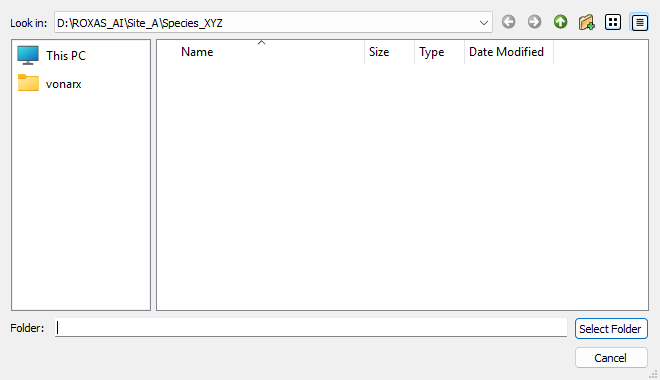
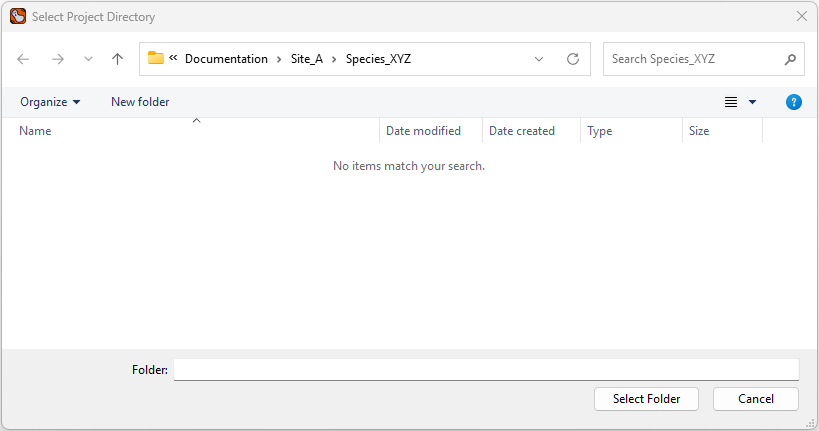
Expand and clarify "Files and Layers Saved" section in user guide for segmentation, editing, cross-dating, and measurement workflows; update overview image, metadata, and layer save logic documentation.

diff --git a/docs/user_guide/widgets.md b/docs/user_guide/widgets.md
@@ -258,6 +258,12 @@ The **Single Sample Segmentation Widget** performs automated deep-learning infer
 - **Rings Detection**: Detects continuous tree-ring boundaries using an iterative regression formulation based on Katzenmaier et al. (2025), sorts boundaries from bark to pith, enforces boundary continuity across the sample width, and constructs labeled annual ring bands (`<sample>.rings`).
 - Post-processes masks to eliminate edge artefacts (e.g., boundary-touching partial cells).
 
+### Files and Layers Saved
+- **In-Memory Layers Created / Updated**: Adds or updates the `<sample>.cells` layer (Labels), `<sample>.rings` layer (Labels), and `Rings Years` text overlay layer in the active napari viewer.
+- **Annotated Overview Image**: Automatically generates and saves the `<sample>_annotated.jpg` overview scan in the sample directory, overlaid with detected ring boundaries and calendar year labels (and optional semi-transparent cell overlays).
+- **Metadata**: Updates `<sample>.metadata.json` with detected ring count (`rings_count`) and outermost complete year (`rings_outmost_complete_year`).
+- *Note on Label Files on Disk*: The raw segmentation label rasters (`.cells.png` and `.rings.tif`) are held in memory as viewer layers ready for manual inspection/editing; they are persisted to disk when clicking **Save All Layers** (or via [8 - Save Cells & Rings Editing](#8-save-cells-rings-editing)).
+
 ### Key Controls & Options
 - **Cell Segmentation Checkbox & Model Dropdown**: Checkbox to enable cell lumen detection, alongside a dropdown list to choose the trained cell model checkpoint (`.pth`). Unchecking disables cell detection and hides the model selection dropdown.
 - **Ring Segmentation Checkbox & Model Dropdown**: Checkbox to enable tree-ring boundary detection, alongside a dropdown list to choose the trained ring model checkpoint (`.pth`). Unchecking disables ring detection and hides the model selection dropdown.
@@ -280,6 +286,12 @@ The **Batch Sample Segmentation Widget** executes AI detection across multiple s
 - Iterates over all discovered sample scans in the project directory.
 - Applies the selected neural network models sequentially (see [Deep-Learning Segmentation Models](../reference/segmentation_models.md)).
 - Automatically saves segmentation masks (`.cells.png` and `.rings.tif`) directly to disk alongside updated `.metadata.json` files.
+
+### Files and Layers Saved
+- **Cell Masks (`<sample>.cells.png`)**: Saved directly to disk when cell segmentation is enabled.
+- **Ring Masks (`<sample>.rings.tif`)**: Saved directly to disk when ring segmentation is enabled.
+- **Annotated Overview Images (`<sample>_annotated.jpg`)**: Automatically created or updated on disk with ring boundaries and year labels when ring segmentation is run.
+- **Metadata (`<sample>.metadata.json`)**: Updated on disk with ring count (`rings_count`) and outermost complete year (`rings_outmost_complete_year`).
 
 ### Key Controls
 - **Project Directory Selection**: Choose the target folder containing prepared samples (triggering the same global project directory selection dialog).
@@ -314,8 +326,12 @@ The **Cells Layer Editor Widget** provides interactive manual editing tools to c
     - **Edit As Vector**: Converts cell outlines into editable polygon shapes for precise vertex editing, shape adjustment, and deletion.
 - **Lasso Selection & Union (OR) Behavior**: In Vector editing mode, drawing lasso loops encloses cells. Multiple overlapping lasso polygons combine (union / OR logic) rather than toggling/canceling, allowing seamless regional selection.
 - **Undo Mechanism**: Supports a 50-step history stack (<kbd>Ctrl</kbd>+<kbd>Z</kbd> or **Undo Last Change** button) that snapshots polygon coordinates and shape types in Vector mode, and triggers napari's label brush history in Raster mode.
-- When applied, rasterizes vectors back to label masks, resets layer feature tables for fresh re-measurement, restores ring layer visibility, and preserves layer metadata.
+- When applied, rasterizes vectors back to label masks, marks the `.cells` layer as modified (triggering unsaved change tracking), resets layer feature tables for fresh re-measurement, restores ring layer visibility, and preserves layer metadata.
 - **Customizable Tolerances & Colors**: Polygon smoothing tolerances, line widths, and display colors can be customized in [ZZ - Settings](#zz-settings) (see [Technical Reference: Visualization Settings](../reference/technical_reference.md#4-visualization-vectorization-rasterization)).
+
+### Files and Layers Saved
+- **In-Memory Modifications**: Changes made using Vector or Raster tools are committed to the in-memory `<sample>.cells` layer upon clicking **Apply Cell Changes**.
+- **Saving to Disk**: Clicking **Save All Layers** (or using [8 - Save Cells & Rings Editing](#8-save-cells-rings-editing)) writes the updated `<sample>.cells.png` raster directly to disk and updates `<sample>.metadata.json`. Manual saving does not redraw `<sample>_annotated.jpg` (keeping saves fast); the annotated image is automatically updated at major workflow checkpoints (segmentation, year updates, cross-dating, measurements).
 
 ### Key Controls & Options
 - **Editing Mode**: Switch between `Vector` and `Raster` editing modes.
@@ -375,6 +391,12 @@ The **Rings Layer Editor Widget** enables precise curation of annual tree-ring b
     - Re-runs the ring boundary detection AI specifically below a corrected reference ring boundary.
 10. **Customizable Tolerances & Colors**:
     - Polyline smoothing tolerances, line thickness, and boundary colors can be customized in [ZZ - Settings](#zz-settings) (see [Technical Reference: Visualization Settings](../reference/technical_reference.md#4-visualization-vectorization-rasterization)).
+
+### Files and Layers Saved
+- **In-Memory Modifications**: Adding, deleting, or nudging ring boundaries updates the `<sample>.rings` labels layer and `Rings Years` text overlay upon clicking **Apply Ring Changes**, marking the `.rings` layer as modified.
+- **Annotated Overview Image (`<sample>_annotated.jpg`)**: Automatically re-drawn and saved directly to disk whenever **Update Year** is clicked, reflecting the new ring year labels and boundary positions.
+- **Ring Table Synchronization (`<sample>.rings_table.csv`)**: When ring changes or year updates are applied, existing ring tables are updated to keep ring numbers and years consistent.
+- **Saving to Disk**: Clicking **Save All Layers** (or using [8 - Save Cells & Rings Editing](#8-save-cells-rings-editing)) writes the updated `<sample>.rings.tif` mask and `<sample>.metadata.json` (outermost year `rings_outmost_complete_year`, ring count `rings_count`) to disk. Manual saves do not redraw `<sample>_annotated.jpg` to keep saving instantaneous.
 
 ### Key Controls & Options
 - **Last Complete Ring Year (SpinBox)**: Specifies the calendar year of the outermost complete annual ring. Supports calendar years from **`-100,000`** (prehistoric/BCE dates) up to **`9,999`** (CE).
@@ -461,6 +483,13 @@ When a sample's tree-ring layer is selected in napari, the widget automatically 
 - **Files in Different Directory Levels**:
     - Because traversal stops at the first directory containing matches, a cross-dating file located in a sample's local subfolder takes precedence over a cross-dating file located in parent or root directories.
 
+### Files and Layers Saved
+- **In-Memory Modifications**: Clicking **Apply Changes** updates the year labels on the `Rings Years` text overlay, shifts `.rings` label indices, and marks the `.rings` layer as modified with the new outermost year.
+- **Annotated Overview Image (`<sample>_annotated.jpg`)**: Automatically re-generated and saved to disk with updated ring calendar year labels upon clicking **Apply Changes**.
+- **Reference Series Plot (`<sample>_ReferenceSeries.jpg`)**: Generated and saved to disk when clicking **Apply Changes** or **Export Plot** (or automatically during batch measurement updates via [9B - Batch Measure & Update](#9b-batch-measure-update)), plotting sample mean ring width (`MRW`) against the selected reference chronology.
+- **Metadata (`<sample>.metadata.json`)**: Updated with the validated outermost year (`rings_outmost_complete_year`) and the selected reference series column (`reference_series`). The cross-dating file path itself is not stored, enabling portable directory hierarchies.
+- **Ring Table Synchronization (`<sample>.rings_table.csv`)**: If measurement tables already exist on disk, their `YEAR` column is automatically updated to reflect the new dating.
+
 ### Key Controls & Options
 - **Crossdating File Dropdown**: Selects among multiple detected cross-dating files in the directory tree.
 - **Reference Series Dropdown**: Selects from individual series, site chronologies, or the auto-computed `"average"` column from the active cross-dating file. Automatically prioritizes columns whose names match the active sample stem.
@@ -482,15 +511,27 @@ The **Samples Saving Widget** writes modified cell masks, ring boundaries, and u
 
 ### How It Works
 - Gathers data, layer parameters, and metadata from active napari layers.
-- Formats and writes `.cells.png` (8-bit or 16-bit label rasters) and `.rings.tif`.
-- Keeps track of unsaved changes: layers loaded from disk start out unmodified, and edits, year updates, cross-dating offsets and new segmentations mark them as modified.
-- Does not redraw the annotated overview image (`<sample_name>_annotated.jpg`), so that saving stays fast. The overview is updated at the workflow checkpoints instead: segmentation (3A/3B), **Update Year** (6), **Apply Changes** (7) and measurements (9A/9B).
+- Formats and writes `.cells.png` (8-bit or 16-bit label rasters) and `.rings.tif` to disk.
+- **Unsaved Changes Tracking**: Layers loaded from disk start out unmodified. Manual edits (vector/raster cell modifications, adding/moving/deleting rings, changing outermost ring year, applying cross-dating offsets) and freshly run AI segmentations mark the corresponding layers as modified (`layer.metadata["is_modified"] = True`).
+- **Targeted Saving**: **Save All Layers** checks which layers have unsaved edits and saves only those modified layers to disk, skipping unmodified files.
+- **Explicit Save Status Notifications**: Reports exactly what was written:
+    - `"Saved cells layer."` (when only `.cells` was modified)
+    - `"Saved rings layer."` (when only `.rings` was modified)
+    - `"Saved cells and rings layers."` (when both were modified)
+    - `"No unsaved changes in cells or rings layers."` (when no changes were pending)
+- **Fast Saving Decoupled from Overview Rendering**: Manual layer saving does **not** redraw the annotated overview image (`<sample_name>_annotated.jpg`), ensuring saves complete in milliseconds without disk or CPU overhead. The annotated overview image is automatically regenerated at key workflow checkpoints instead: AI segmentation (3A/3B), **Update Year** (6), **Apply Changes** in cross-dating (7), and trait measurement (9A/9B).
 - Updates `<sample_name>.metadata.json` with updated ring counts, outermost year, and timestamps.
 - Operates in a non-blocking background worker thread.
 
+### Files and Layers Saved
+- **Cell Masks (`<sample>.cells.png`)**: Written to disk if `.cells` has unsaved changes.
+- **Ring Masks (`<sample>.rings.tif`)**: Written to disk if `.rings` has unsaved changes.
+- **Metadata (`<sample>.metadata.json`)**: Synchronized with layer metadata parameters (outermost ring year `rings_outmost_complete_year`, ring count `rings_count`, layer timestamps).
+- *Overview Image Note*: `<sample>_annotated.jpg` is **not** overwritten on manual save, keeping layer saving instantaneous.
+
 ### Key Controls
 - **Save Selected Layers**: Saves only the layers currently highlighted in the napari layer list.
-- **Save All Layers**: Saves only the `.cells` and `.rings` layers with unsaved changes and reports what was written: "Saved cells layer.", "Saved rings layer." or "Saved cells and rings layers.". Without changes, nothing is written and "No unsaved changes in cells or rings layers." is shown.
+- **Save All Layers**: Saves only the `.cells` and `.rings` layers with unsaved changes and reports what was written ("Saved cells layer.", "Saved rings layer.", or "Saved cells and rings layers."). Without changes, nothing is written and "No unsaved changes in cells or rings layers." is shown.
 - **Progress Bar**: Shows disk write progress, scaled to the number of layers actually saved.
 
 ---
@@ -511,6 +552,12 @@ The **Single Sample Measurements Widget** computes the full suite of Quantitativ
     - **Ring-Level Aggregates**: Mean Ring Width (`MRW`), Cell Density (`CD`), Conductive Area Fraction (`RCTA`), Mork's Index (`RTSR`), Relative Anatomical Density (`RWD`).
 - Outputs semicolon-delimited CSV tables: `<sample_name>.cells_table.csv` and `<sample_name>.rings_table.csv` (file extensions and delimiter configurable in settings).
 - **Always Re-creates Annotated Image**: Re-creates and saves an updated annotated overview image (`<sample_name>_annotated.jpg`) overlaid with ring boundaries and years whenever measurements are performed, ensuring the annotated image remains strictly in line with the measurements.
+
+### Files and Layers Saved
+- **Cell Measurement Table (`<sample>.cells_table.csv`)**: Saved directly to disk with comprehensive lumen and cell wall thickness metrics per detected cell instance (when **Measure Cells** is enabled).
+- **Ring Measurement Table (`<sample>.rings_table.csv`)**: Saved directly to disk with ring-width and ring-level aggregate anatomical traits per calendar year (when **Measure Rings** is enabled).
+- **Annotated Overview Image (`<sample>_annotated.jpg`)**: Automatically re-generated and saved to disk with synchronized ring boundaries, calendar years, and cell lumen overlays.
+- **Layer Feature Tables**: In-memory feature tables on `.cells` and `.rings` layers are updated, allowing interactive inspection of properties directly within napari.
 
 ### Key Controls
 - **Measure Cells / Measure Rings**: Checkboxes selecting whether to measure cell anatomical metrics, tree-ring boundary metrics, or both.
@@ -533,6 +580,17 @@ The **Batch Sample Measurements Widget** runs high-throughput anatomical trait e
 - Computes cell-level and ring-level measurement tables in batch mode.
 - Writes `<sample>.cells_table.csv` and `<sample>.rings_table.csv` directly to each sample folder.
 - Generates or updates annotated overview scans (`<sample>_annotated.jpg`) and cross-dating reference plots (`<sample>_ReferenceSeries.jpg`).
+- **How Reference Plot Updates Work**: When generating `<sample>_ReferenceSeries.jpg`, ROXAS AI extracts the sample's measured mean ring width (`MRW`) series from `<sample>.rings_table.csv` (or calculates it from the `.rings` mask). It discovers available cross-dating files in the directory hierarchy by searching strictly upwards from the sample folder for files matching the configured cross-dating file extension (e.g., `*.crossdating.txt`). To determine which reference series to plot against:
+    - If a specific reference series was previously saved in `<sample>.metadata.json` (`reference_series`), and that column exists in one of the discovered cross-dating files, it uses that stored reference series.
+    - If no reference series is stored (or `reference_series` is `"NA"` or no longer present in the files), ROXAS AI automatically searches the series columns of the discovered cross-dating files for the best name match with the sample name.
+    - If a matching reference series is identified, the plot is rendered and `<sample>.metadata.json` is updated with the selected `reference_series`. If no cross-dating files or matching series are found, reference plot creation is safely skipped.
+
+### Files and Layers Saved
+- **Cell Measurement Tables (`<sample>.cells_table.csv`)**: Saved to disk for each processed sample when **Measure Cells** is enabled.
+- **Ring Measurement Tables (`<sample>.rings_table.csv`)**: Saved to disk for each processed sample when **Measure Rings** is enabled.
+- **Annotated Overview Images (`<sample>_annotated.jpg`)**: Saved or updated on disk for each sample when **Update Annotated Images** is active (or locked on during measurements).
+- **Reference Series Plots (`<sample>_ReferenceSeries.jpg`)**: Saved or updated on disk for each sample when **Update Crossdating Reference Files** is active (or locked on during measurements), plotting sample MRW curves against their validated reference chronologies.
+- **Metadata (`<sample>.metadata.json`)**: Synchronized with updated analysis timestamps and measurement parameters.
 
 ### Linked Operations Logic (File Synchronization)
 To prevent dataset inconsistencies, ROXAS AI enforces linked operation synchronization:
